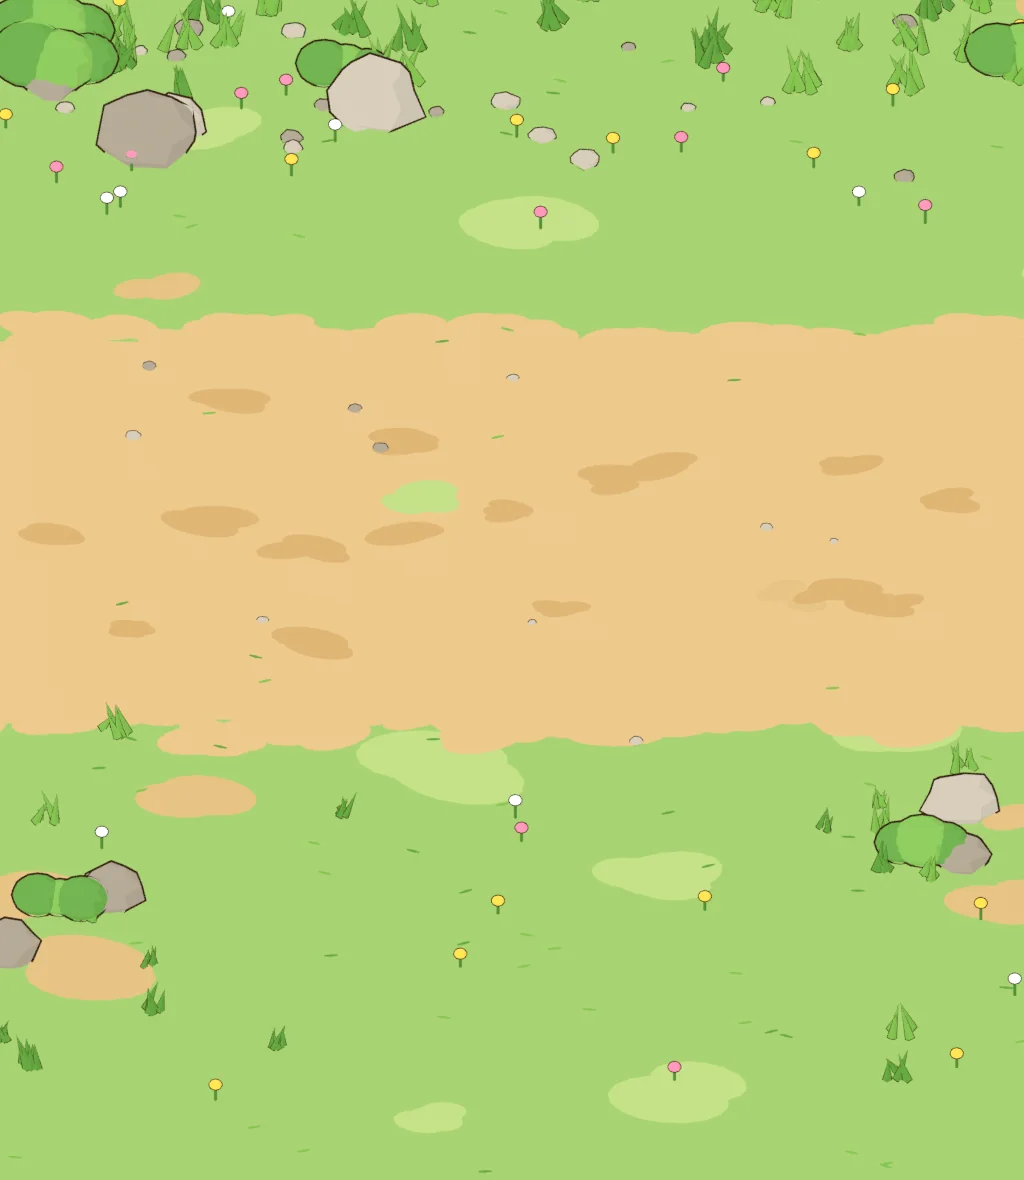
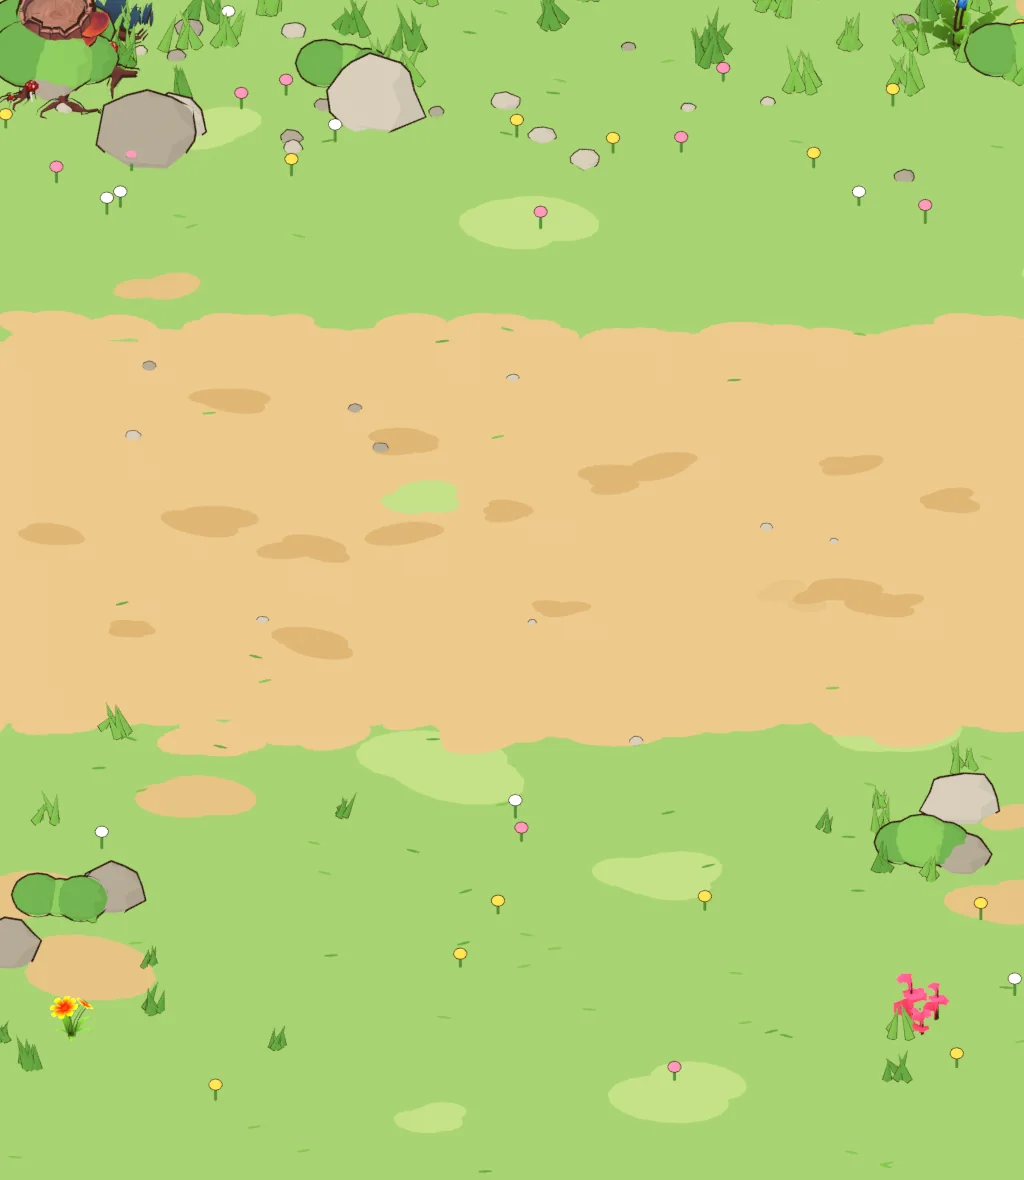
art(hunt): 사냥터 바닥 5지역에 Sketchfab 소품 — 그루터기 · 쓰러진 통나무 · 빛나는 버섯 · 선인장 · 결정 · 바위(CC BY, 셀 그림체로 다시 렌더)
사용자 Sketchfab 적용 2단계(몬스터 다음 맵 소품·배경).
- hunt_ground.py sf_prop: GLB 를 가져와 이름 조각(keep)만 남기고, 디오라마 바닥판은 뺀다. 높이 h 로 줄여 바닥 (u, v)에 세우고 잉크 외곽선을 두른다.
  같은 셀 재질은 lib/toon 이 입힌다. 원본이 없으면(저장소 밖 art-gen/out/sketchfab) 건너뛰고, HG_SF=0 이면 옛 바닥만 그린다.
- 작가가 넣은 검은 외곽선 껍질 메시(바탕색 거의 검정 · 그림 없음)를 걸러 냈다. Cycles 는 뒷면 숨김을 무시해 그루터기가 검은 덩어리였다.
- 화산암 묶음은 원래 짙은 현무암이라 셀에선 검은 덩어리였다. 화산은 자연 묶음의 회갈색 바위 + 구리 광석으로 바꿨다.
- 지역별(SF_PROPS): 뒤 가장자리 · 아래 모서리만 쓰고 발 자리는 비운다. 옛 기둥 · 용암 자리는 피했다.
  - 초원: 그루터기 · 덤불 · 꽃
  - 숲: 쓰러진 통나무(버섯) · 빛나는 버섯 · 그루터기
  - 폐허: 선인장 · 바위
  - 화산: 바위 · 광석
  - 심연: 결정 · 빛나는 버섯
- 바닥 위끝 평균색이 바뀌어 이음선 색(--ground-edge)을 새 실측값으로 맞췄다(숲 #6a8d4d → #7a824a 등).
- 크레딧: 소품 6종을 게임 안 크레딧(src/ui/credits.ts)과 docs/CREDITS.md 로 옮겼다.

검사: verify-systems 392 · hunt-focus 33 · play-art 9 · settings 22 · tsc(app) · 숲 · 화산 · 심연 실제 화면

diff --git a/src/ui/credits.ts b/src/ui/credits.ts
@@ -11,6 +11,13 @@ export const SKETCHFAB_CREDITS: readonly ModelCredit[] = [
   { title: "Monster Plant", author: "Batuhan13", url: "https://sketchfab.com/3d-models/monster-plant-b7e677ebca4e4b6ea247fba10a356bd4", use: "몬스터 '화분 파리지옥'" },
   { title: "Eyeball Plant", author: "Snarkle Studios", url: "https://sketchfab.com/3d-models/eyeball-plant-3c020ddcd129468ea065822cc12dfb22", use: "몬스터 '눈알 꽃'" },
   { title: "Cute tentacle creature", author: "endike", url: "https://sketchfab.com/3d-models/cute-tentacle-creature-2aec23f475dc4c93a6353fa7052d15d2", use: "몬스터 '말랑 불가사리'" },
+  // 사냥터 바닥 소품(art-gen/blender/hunt_ground.py SF_PROPS)
+  { title: "Low poly Stylized Nature Pack", author: "Satendra Saraswat", url: "https://sketchfab.com/3d-models/low-poly-stylized-nature-pack-9c773e846c6e4448b26b2cdecb2b91bf", use: "사냥터 바닥 덤불 · 꽃 · 버섯 · 결정 · 바위" },
+  { title: "[FREE] Lowpoly Volcanic Rocks [Asset Pack]", author: "SimplePolygon", url: "https://sketchfab.com/3d-models/free-lowpoly-volcanic-rocks-asset-pack-4fe6a72f8afa4bafbd03cf384add10f0", use: "사냥터 바닥 바위 · 광석" },
+  { title: "Stylized mushrooms", author: "QumoDone", url: "https://sketchfab.com/3d-models/stylized-mushrooms-9d22e02ce2a548959b1c4c4c1d546842", use: "사냥터 바닥 빛나는 버섯(숲 · 심연)" },
+  { title: "Cartoon fallen tree", author: "neon_dust", url: "https://sketchfab.com/3d-models/cartoon-fallen-tree-85be5e12759d460cb5f1f0d7a4c109b6", use: "사냥터 바닥 쓰러진 통나무(숲)" },
+  { title: "Tree Stump stylized", author: "makcutka250", url: "https://sketchfab.com/3d-models/tree-stump-stylized-adb24e49311b48e69a95c3a5324817ec", use: "사냥터 바닥 그루터기(초원 · 숲)" },
+  { title: "Cactus | Pack", author: "YadroGames", url: "https://sketchfab.com/3d-models/cactus-pack-588596f1601d48e6ad4cb24b31c3f33c", use: "사냥터 바닥 선인장(폐허)" },
 ];
 
 export const CREDIT_LICENSE = "CC BY 4.0 — 우리 그림체(셀 음영 · 외곽선)로 다시 렌더해 바꿨다";

diff --git a/src/App.css b/src/App.css
@@ -4895,11 +4895,11 @@ button.wallet-gem { cursor: pointer; padding-right: 24px; }
 /* ── 땅을 걷는 맵 (2026-10-12, 참고: 카피바라 키우기) — 배경은 위 지평선 띠, 아래는 평평한 흙 띠, 캐릭터는 흙 띠 안에 선다 ── */
 /* 바닥 그림 (2026-11-19, 리소스 피드백 ② "사냥터 바닥이 단색이다") — 단색 + 얼룩 넷 → 지역마다 셀 그림결 바닥 한 장(가운데 흙길 = 발 자리, 소품은 뒤 가장자리 · 아래 모서리).
    art-gen/blender/hunt_ground.py → scripts/assemble-hunt-ground.mjs. --ground-flat 은 그림 아래 색(그림이 늦게 뜰 때), --ground-edge 는 그림 위 가장자리 색(이음선 녹임) */
-.titans-field { --ground-top: 44%; --ground-flat: #a9d373; --ground-edge: #99c767; }
-.titans-field[data-area="forest"] { --ground-flat: #799b56; --ground-edge: #6a8d4d; }
-.titans-field[data-area="ruins"] { --ground-flat: #e4c497; --ground-edge: #dcc094; }
-.titans-field[data-area="volcano"] { --ground-flat: #86604c; --ground-edge: #795747; }
-.titans-field[data-area="abyss"] { --ground-flat: #8172a7; --ground-edge: #7f73a6; }
+.titans-field { --ground-top: 44%; --ground-flat: #a9d373; --ground-edge: #95b963; }
+.titans-field[data-area="forest"] { --ground-flat: #799b56; --ground-edge: #7a824a; }
+.titans-field[data-area="ruins"] { --ground-flat: #e4c497; --ground-edge: #d1b78b; }
+.titans-field[data-area="volcano"] { --ground-flat: #86604c; --ground-edge: #71564a; }
+.titans-field[data-area="abyss"] { --ground-flat: #8172a7; --ground-edge: #7f6da8; }
 .titans-field .titans-background { inset: 0 0 auto 0; height: var(--ground-top); background-image: var(--area-background); background-size: cover; background-position: center bottom; }
 .titans-ground { position: absolute; left: 0; right: 0; top: var(--ground-top); bottom: 0; z-index: 0; background-color: var(--ground-flat);
   background-image: var(--area-ground-art, none); background-size: cover; background-position: center top; background-repeat: no-repeat; }

diff --git a/art-gen/blender/hunt_ground.py b/art-gen/blender/hunt_ground.py
@@ -16,7 +16,7 @@ import sys
 import os
 import math
 import random
-from mathutils import Euler
+from mathutils import Euler, Matrix, Vector
 
 sys.path.insert(0, os.path.dirname(os.path.abspath(__file__)))
 from lib import bcommon as C
@@ -228,6 +228,86 @@ def lava_pool(x, y, cfg, rng, r=0.45):
     put('pool_hi', C.ellipsoid((x - r * 0.2, y + r * 0.05, 0.028), (r * 0.4, r * 0.18, 0.006), seg=12, rings=4), M(cfg['lava'][1], emit=cfg['lava'][1], strength=1.4))
 
 
+# ── Sketchfab 소품 (2026-11-23, 사용자: "sketchfab 에서 받아 맵에도 적용" — CC BY, 작가 · 주소는 docs/CREDITS.md · src/ui/credits.ts) ──
+# 원본 GLB 는 저장소 밖 art-gen/out/sketchfab — 없으면 건너뛴다(옛 바닥 그대로). 가져온 모델은 lib/toon 이 같은 셀 재질로 바꾸고, 잉크 외곽선을 두른다
+SF_DIR = os.path.join(ROOT, 'art-gen', 'out', 'sketchfab')
+SF_USED = set()   # 이 렌더에 실제로 쓴 파일(로그 — 크레딧 대조용)
+
+
+def sf_prop(file, u, v, h, keep=None, yaw=0.0, ink=0.022):
+    """file 의 메시 중 keep(이름 조각들, None 이면 전부 · 납작한 바닥판은 뺀다)만 남겨 높이 h(월드)로 줄여 (u, v) 바닥에 세운다"""
+    path = os.path.join(SF_DIR, file)
+    if not os.path.exists(path):
+        print('skip (no file)', file, flush=True)
+        return
+    before = set(bpy.data.objects)
+    bpy.ops.import_scene.gltf(filepath=path)
+    new = [o for o in bpy.data.objects if o not in before]
+    bpy.context.view_layer.update()
+    meshes = [o for o in new if o.type == 'MESH']
+
+    def dims(o):
+        bb = [o.matrix_world @ Vector(c) for c in o.bound_box]
+        return Vector((max(p.x for p in bb) - min(p.x for p in bb), max(p.y for p in bb) - min(p.y for p in bb), max(p.z for p in bb) - min(p.z for p in bb))), bb
+    def ink_shell(o):
+        """작가가 넣은 검은 외곽선 껍질(바탕색 거의 검정 · 그림 없음) — Cycles 는 뒷면 숨김을 무시해 몸 전체를 검게 덮었다(그루터기)"""
+        ms = [s.material for s in o.material_slots if s.material]
+        if not ms:
+            return False
+        for m in ms:
+            b = next((n for n in m.node_tree.nodes if n.type == 'BSDF_PRINCIPLED'), None) if m.use_nodes else None
+            if b is None or b.inputs['Base Color'].is_linked:
+                return False
+            c = b.inputs['Base Color'].default_value
+            if 0.2126 * c[0] + 0.7152 * c[1] + 0.0722 * c[2] > 0.04:
+                return False
+        return True
+    sel = []
+    for o in meshes:
+        if ink_shell(o):
+            continue
+        d, _ = dims(o)
+        if keep is not None and not any(k in o.name for k in keep):
+            continue
+        if keep is None and d.z < 0.2 * max(d.x, d.y):   # 디오라마 바닥판
+            continue
+        sel.append(o)
+    mws = {o: o.matrix_world.copy() for o in sel}
+    for o in new:
+        if o not in sel:
+            bpy.data.objects.remove(o, do_unlink=True)
+    if not sel:
+        print('skip (no match)', file, keep, flush=True)
+        return
+    for o in sel:
+        o.parent = None
+        o.matrix_world = mws[o]
+    bpy.context.view_layer.update()
+    pts = [p for o in sel for p in dims(o)[1]]
+    lo = Vector((min(p.x for p in pts), min(p.y for p in pts), min(p.z for p in pts)))
+    hi = Vector((max(p.x for p in pts), max(p.y for p in pts), max(p.z for p in pts)))
+    s = h / max(1e-6, hi.z - lo.z)
+    place = Matrix.Translation((u2x(u), v2y(v), 0.0)) @ Matrix.Rotation(math.radians(yaw), 4, 'Z') @ Matrix.Scale(s, 4) @ Matrix.Translation((-(lo.x + hi.x) / 2, -(lo.y + hi.y) / 2, -lo.z))
+    for o in sel:
+        o.matrix_world = place @ mws[o]
+    bpy.context.view_layer.update()
+    for o in sel:
+        sc = o.matrix_world.to_scale()
+        C.add_outline(o, ink / max(1e-6, (abs(sc.x) + abs(sc.y) + abs(sc.z)) / 3))
+    SF_USED.add(file)
+
+
+# 지역마다 놓을 소품 — 뒤 가장자리(v 0~0.1)와 아래 모서리(v 0.82~0.92)만, 발 자리(가운데)는 비운다. 옛 기둥 · 용암 웅덩이 자리는 피했다
+SF_PROPS = {
+    'meadow': [('p-stump.glb', 0.07, 0.05, 0.95, None, 20), ('p-nature.glb', 0.93, 0.04, 0.7, ['Clump7'], 0), ('p-nature.glb', 0.9, 0.87, 0.42, ['FlowerR1'], 0), ('p-nature.glb', 0.07, 0.88, 0.4, ['FlowerY1'], 0)],
+    'forest': [('p-fallentree.glb', 0.17, 0.05, 0.85, None, 12), ('p-mushrooms.glb', 0.91, 0.07, 0.9, None, -20), ('p-nature.glb', 0.05, 0.87, 0.5, ['MushrumC1'], 0), ('p-stump.glb', 0.94, 0.86, 0.7, None, -30)],
+    'ruins': [('p-cactus.glb', 0.22, 0.05, 1.0, ['cactus_8'], 0), ('p-cactus.glb', 0.8, 0.04, 0.85, ['cactus_4'], 0), ('p-rocks.glb', 0.12, 0.88, 0.55, ['Cliff_Rock_02'], 0)],
+    # 화산 — 화산암 묶음(p-rocks)은 원래 짙은 현무암이라 셀로 그리면 검은 덩어리였다 → 자연 묶음의 회갈색 바위 + 구리 · 붉은 광석 조각만
+    'volcano': [('p-nature.glb', 0.3, 0.04, 0.75, ['RB1'], 0), ('p-nature.glb', 0.7, 0.05, 0.6, ['RB2'], 30), ('p-rocks.glb', 0.07, 0.88, 0.3, ['Rock_Copper'], 0)],
+    'abyss': [('p-nature.glb', 0.07, 0.06, 0.9, ['Crystel1'], 0), ('p-mushrooms.glb', 0.92, 0.05, 0.8, None, 15), ('p-nature.glb', 0.93, 0.86, 0.75, ['Crystel2'], 0)],
+}
+
+
 def scatter(fn, n, rng, vmin, vmax, umin=-0.04, umax=1.04, avoid_calm=True, tries=60):
     placed = 0
     for _ in range(n * tries):
@@ -285,6 +365,10 @@ def build(area):
         scatter(lambda x, y: crystal(x, y, cfg, rng, rng.uniform(0.9, 1.3)), 7, rng, 0.0, 0.13, avoid_calm=False)
         scatter(lambda x, y: crystal(x, y, cfg, rng, 0.8), 4, rng, 0.66, 0.95)
         scatter(lambda x, y: crack(x, y, rng, n=5, col='#b48cff', emit='#b48cff', strength=0.5, w=0.025), 5, rng, 0.0, 1.0)
+    # Sketchfab 소품(2026-11-23) — HG_SF=0 이면 빼고 옛 바닥만
+    if os.environ.get('HG_SF', '1') != '0':
+        for file, u, v, h, keep, yaw in SF_PROPS.get(area, []):
+            sf_prop(file, u, v, h, keep, yaw)
 
 
 def render(area):

diff --git a/docs/CREDITS.md b/docs/CREDITS.md
@@ -14,18 +14,20 @@
 | 몬스터 '화분 파리지옥' (숲 · 고블린 변종) | Monster Plant | Batuhan13 | https://sketchfab.com/3d-models/monster-plant-b7e677ebca4e4b6ea247fba10a356bd4 | m-plant.glb |
 | 몬스터 '눈알 꽃' (초원 · 고블린 변종) | Eyeball Plant | Snarkle Studios | https://sketchfab.com/3d-models/eyeball-plant-3c020ddcd129468ea065822cc12dfb22 | m-eyeplant.glb |
 | 몬스터 '말랑 불가사리' (폐허 · 늑대 변종) | Cute tentacle creature | endike | https://sketchfab.com/3d-models/cute-tentacle-creature-2aec23f475dc4c93a6353fa7052d15d2 | m-tentacle.glb |
+| 사냥터 바닥 덤불 · 꽃 · 버섯 · 결정 · 바위 | Low poly Stylized Nature Pack | Satendra Saraswat | https://sketchfab.com/3d-models/low-poly-stylized-nature-pack-9c773e846c6e4448b26b2cdecb2b91bf | p-nature.glb |
+| 사냥터 바닥 바위 · 광석 | [FREE] Lowpoly Volcanic Rocks [Asset Pack] | SimplePolygon | https://sketchfab.com/3d-models/free-lowpoly-volcanic-rocks-asset-pack-4fe6a72f8afa4bafbd03cf384add10f0 | p-rocks.glb |
+| 사냥터 바닥 빛나는 버섯(숲 · 심연) | Stylized mushrooms | QumoDone | https://sketchfab.com/3d-models/stylized-mushrooms-9d22e02ce2a548959b1c4c4c1d546842 | p-mushrooms.glb |
+| 사냥터 바닥 쓰러진 통나무(숲) | Cartoon fallen tree | neon_dust | https://sketchfab.com/3d-models/cartoon-fallen-tree-85be5e12759d460cb5f1f0d7a4c109b6 | p-fallentree.glb |
+| 사냥터 바닥 그루터기(초원 · 숲) | Tree Stump stylized | makcutka250 | https://sketchfab.com/3d-models/tree-stump-stylized-adb24e49311b48e69a95c3a5324817ec | p-stump.glb |
+| 사냥터 바닥 선인장(폐허) | Cactus \| Pack | YadroGames | https://sketchfab.com/3d-models/cactus-pack-588596f1601d48e6ad4cb24b31c3f33c | p-cactus.glb |
 
-받았지만 아직 게임에 넣지 않은 것 — 넣을 때 위 표와 `src/ui/credits.ts` 로 옮긴다.
+바닥 소품 렌더는 `art-gen/blender/hunt_ground.py`(SF_PROPS — 지역마다 뒤 가장자리 · 아래 모서리, 발 자리는 비움)이다. 작가가 넣은 검은 외곽선 껍질 메시는 걸러 낸다.
 
-| 원본 | 작가 | 주소 | 파일 | 상태 |
+받았지만 쓰지 않은 것
+
+| 원본 | 작가 | 주소 | 파일 | 까닭 |
 |---|---|---|---|---|
-| Low poly Stylized Nature Pack | Satendra Saraswat | https://sketchfab.com/3d-models/low-poly-stylized-nature-pack-9c773e846c6e4448b26b2cdecb2b91bf | p-nature.glb | 맵 소품 예정 |
-| [FREE] Lowpoly Volcanic Rocks [Asset Pack] | SimplePolygon | https://sketchfab.com/3d-models/free-lowpoly-volcanic-rocks-asset-pack-4fe6a72f8afa4bafbd03cf384add10f0 | p-rocks.glb | 맵 소품 예정 |
-| Stylized mushrooms | QumoDone | https://sketchfab.com/3d-models/stylized-mushrooms-9d22e02ce2a548959b1c4c4c1d546842 | p-mushrooms.glb | 맵 소품 예정 |
-| Cartoon fallen tree | neon_dust | https://sketchfab.com/3d-models/cartoon-fallen-tree-85be5e12759d460cb5f1f0d7a4c109b6 | p-fallentree.glb | 맵 소품 예정 |
-| Tree Stump stylized | makcutka250 | https://sketchfab.com/3d-models/tree-stump-stylized-adb24e49311b48e69a95c3a5324817ec | p-stump.glb | 맵 소품 예정 |
-| Cactus \| Pack | YadroGames | https://sketchfab.com/3d-models/cactus-pack-588596f1601d48e6ad4cb24b31c3f33c | p-cactus.glb | 맵 소품 예정 |
-| Slime 1 | 3DHaupt | https://sketchfab.com/3d-models/slime-1-8b44e345b4a94818837e953a06e571bf | m-slime.glb | 안 씀 — 눈 없는 초록 상자라 셀로 그리면 몬스터로 안 읽혔다 |
+| Slime 1 | 3DHaupt | https://sketchfab.com/3d-models/slime-1-8b44e345b4a94818837e953a06e571bf | m-slime.glb | 눈 없는 초록 상자라 셀로 그리면 몬스터로 안 읽혔다 |
 
 ## 고르는 규칙
 
